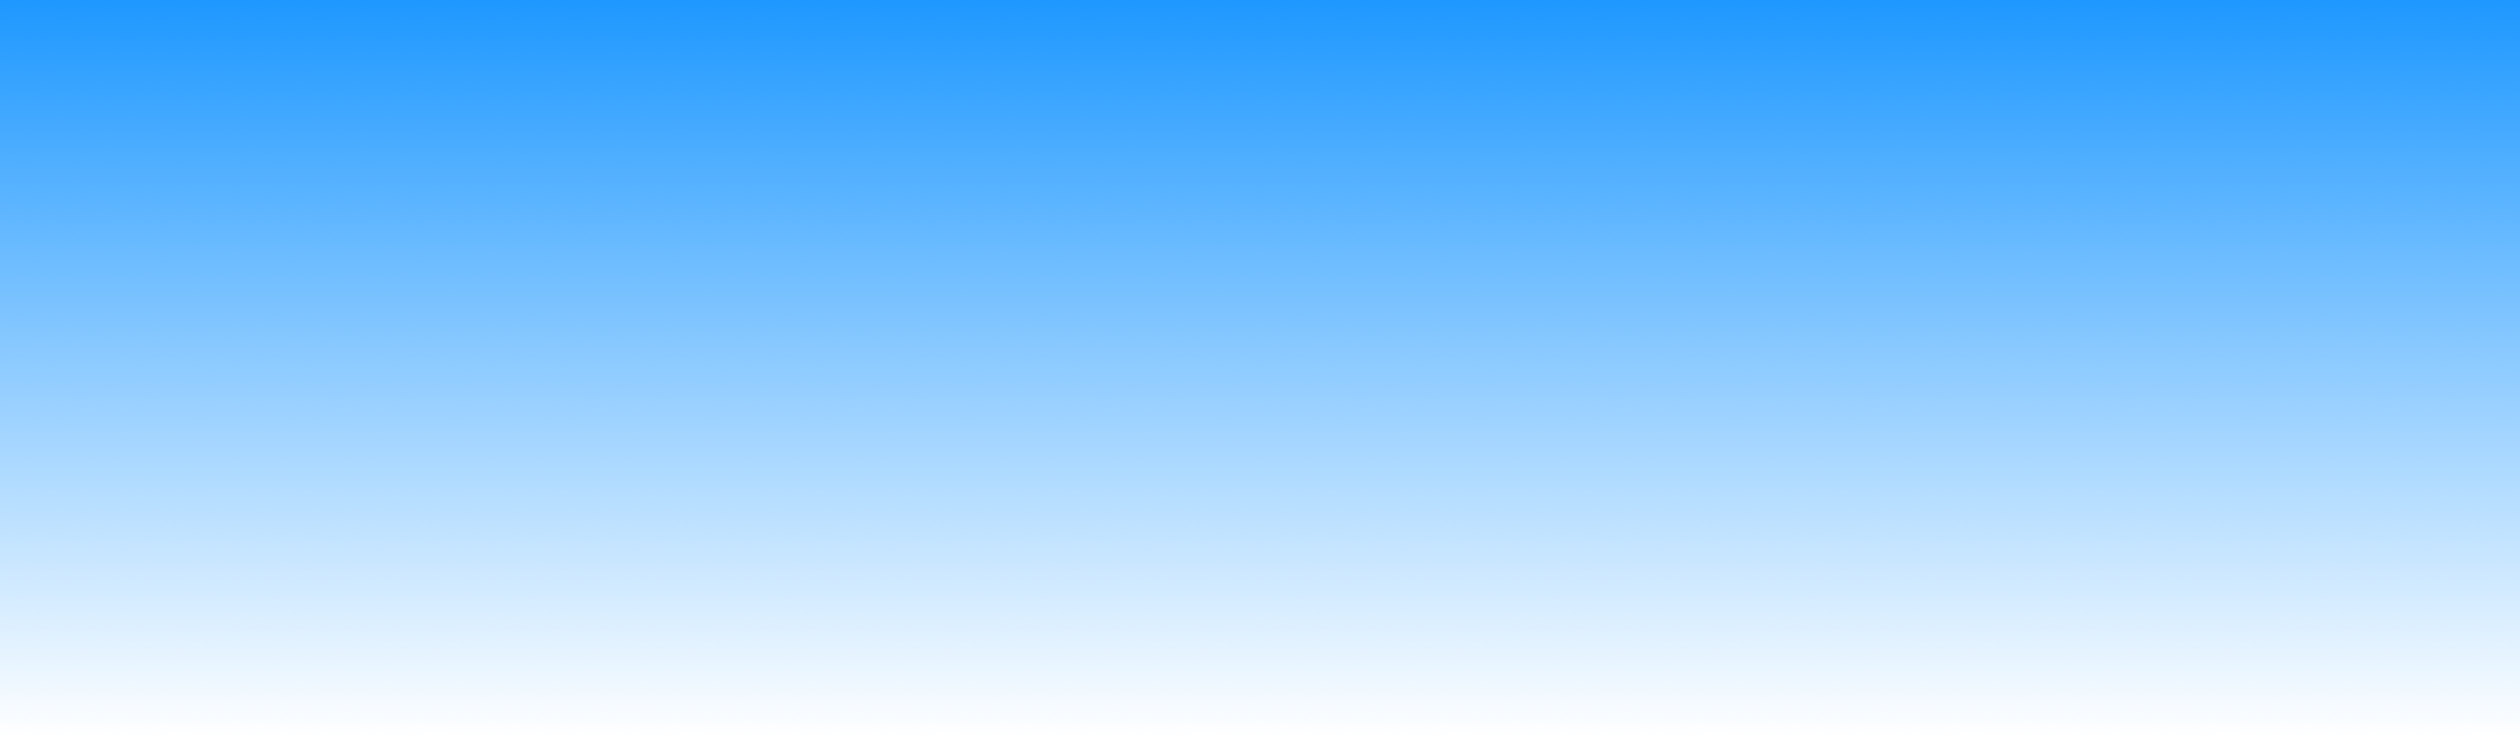
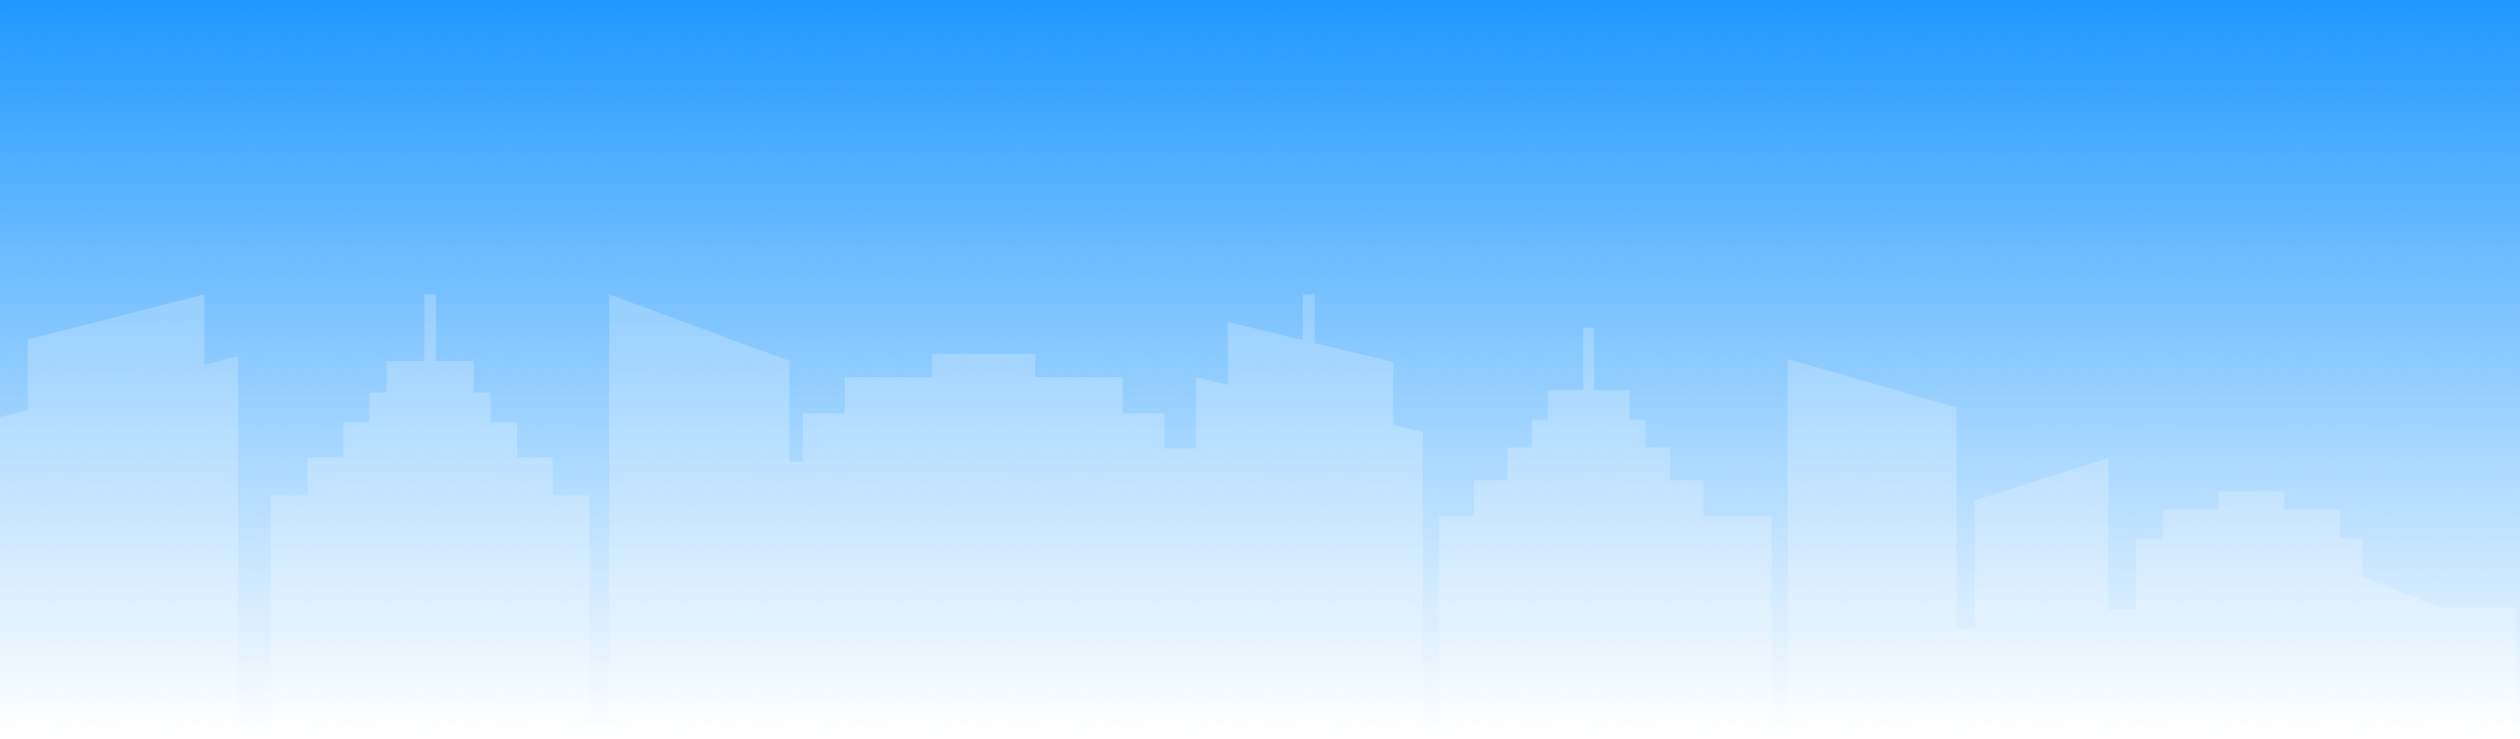
profile done

diff --git a/pages/profile/css/styles.css b/pages/profile/css/styles.css
@@ -1,1 +1,1 @@
-.profile-page{background-position:top;background-repeat:no-repeat;background-size:cover;margin-bottom:225px}.profile h1,.profile h2{font-weight:500;font-size:24px;line-height:28px;margin-bottom:24px}.profile__container{margin:0 auto;max-width:1045px;padding:0 16px}.profile__avatar{display:flex;flex-direction:column;align-items:center;justify-content:center;gap:16px;margin-bottom:32px}.profile__photo{padding-top:16px}.profile__photo img{display:block;height:181px;width:181px;-o-object-fit:contain;object-fit:contain;border:1px solid rgba(0,0,0,0);border-radius:50%}.profile__photo.blue img{box-shadow:1px 1px 11px 6px rgba(0,209,255,.42);border-color:#a9d7ff}.profile__photo.green img{box-shadow:1px 1px 11px 6px #1effae;border-color:#00e569}.profile__photo.yellow img{box-shadow:1px 1px 11px 6px #ecff0b;border-color:#faff1e}.profile__info p{font-size:32px;line-height:37px;font-weight:500;margin-bottom:8px}.profile__info div{display:flex;align-items:center;justify-content:center;gap:8px}.profile__info div span{font-size:16px;line-height:18px;font-weight:500}.profile__status{display:flex;flex-wrap:wrap;justify-content:center;gap:31px;margin-bottom:59px}.profile__status-item{position:relative;padding:20px 16px;border-radius:16px;min-width:221px;display:flex;flex-direction:column;gap:3px;text-align:center;justify-content:center;background-color:#fff}.profile__status-item span{color:#686d81;font-size:14px;line-height:16px}.profile__status-item b{line-height:23px;font-size:20px;font-weight:700}.profile__status-item i{position:absolute;top:-5px;left:50%;transform:translateX(-50%);font-family:"Open Sans";font-weight:600;font-size:10px;color:#fff;text-transform:uppercase;line-height:16px;background-color:#f05b5b;letter-spacing:.5px;border-radius:20px;white-space:nowrap;padding:2px 8px;font-style:normal}.profile__course{text-decoration:none;color:#202020;display:flex;border-radius:24px;overflow:hidden;margin-bottom:32px;box-shadow:5px 5px 15px 0px #e6edf3,5px -5px 10px 0px rgba(230,230,230,.2),-5px 5px 10px 0px rgba(230,230,230,.2)}.profile__course:last-of-type{margin-bottom:0}.profile__course-data{padding:32px;width:calc(100% - 323px);display:flex;flex-direction:column;justify-content:space-between}.profile__course-data-container{display:flex;align-items:center;justify-content:space-between;gap:10px}.profile__course-data-title,.profile__course-data-meta{font-weight:500;font-size:16px;line-height:18px;display:flex;align-items:center;gap:6px}.profile__course-data-title .disabled,.profile__course-data-meta .disabled{color:#c5c9d2}.profile__course-data-title .outdated,.profile__course-data-meta .outdated{font-family:"Open Sans";font-size:10px;font-weight:600;line-height:16px;text-transform:uppercase;padding:0px 6px;border-radius:20px;color:#fff;background-color:#f05b5b;letter-spacing:.5px}.profile__course-data-meta{color:#686d81;gap:20px}.profile__course img{max-height:189px;max-width:323px}.profile__course .progress-bar{position:relative;border-radius:100px;background-color:#f4fcff;overflow:hidden;height:4px;margin-top:9px}.profile__course .progress-bar hr{width:0;margin:0;height:inherit;border:0;background-color:#1e98ff;position:absolute}.profile__course .progress-bar.full{background-color:#2fd215}.profile__course .progress-bar.full hr{display:none}
+.profile-page{background-position:top;background-size:contain;background-image:url("../../../assets/images/pages/profile/background.png");margin-bottom:225px;background-repeat:repeat-x;background-size:auto 493px}.profile{padding-top:90px}.profile h1,.profile h2{font-weight:500;font-size:24px;line-height:28px;margin-bottom:24px}.profile__container{margin:0 auto;max-width:1045px;padding:0 16px}.profile__avatar{display:flex;flex-direction:column;align-items:center;justify-content:center;gap:16px;margin-bottom:32px}.profile__photo img{display:block;height:181px;width:181px;-o-object-fit:contain;object-fit:contain;border:1px solid rgba(0,0,0,0);border-radius:50%}.profile__photo.blue img{box-shadow:1px 1px 11px 6px rgba(0,209,255,.42);border-color:#a9d7ff}.profile__photo.green img{box-shadow:1px 1px 11px 6px #1effae;border-color:#00e569}.profile__photo.yellow img{box-shadow:1px 1px 11px 6px #ecff0b;border-color:#faff1e}.profile__info p{font-size:32px;line-height:37px;font-weight:500;margin-bottom:8px}.profile__info div{display:flex;align-items:center;justify-content:center;gap:8px}.profile__info div span{font-size:16px;line-height:18px;font-weight:500}.profile__status{display:flex;flex-wrap:wrap;justify-content:center;gap:31px;margin-bottom:59px}.profile__status-item{position:relative;padding:20px 16px;border-radius:16px;min-width:221px;display:flex;flex-direction:column;gap:3px;text-align:center;justify-content:center;background-color:#fff}.profile__status-item span{color:#686d81;font-size:14px;line-height:16px}.profile__status-item b{line-height:23px;font-size:20px;font-weight:700}.profile__status-item i{position:absolute;top:-5px;left:50%;transform:translateX(-50%);font-family:"Open Sans";font-weight:600;font-size:10px;color:#fff;text-transform:uppercase;line-height:16px;background-color:#f05b5b;letter-spacing:.5px;border-radius:20px;white-space:nowrap;padding:2px 8px;font-style:normal}.profile__course{text-decoration:none;color:#202020;display:flex;border-radius:24px;overflow:hidden;margin-bottom:32px;box-shadow:5px 5px 15px 0px #e6edf3,5px -5px 10px 0px rgba(230,230,230,.2),-5px 5px 10px 0px rgba(230,230,230,.2)}.profile__course:last-of-type{margin-bottom:0}.profile__course-data{padding:32px;width:calc(100% - 323px);display:flex;flex-direction:column;justify-content:space-between}.profile__course-data-container{display:flex;align-items:center;justify-content:space-between;gap:10px}.profile__course-data-title,.profile__course-data-meta{font-weight:500;font-size:16px;line-height:18px;display:flex;align-items:center;gap:6px}.profile__course-data-title .disabled,.profile__course-data-meta .disabled{color:#c5c9d2}.profile__course-data-title .outdated,.profile__course-data-meta .outdated{font-family:"Open Sans";font-size:10px;font-weight:600;line-height:16px;text-transform:uppercase;padding:0px 6px;border-radius:20px;color:#fff;background-color:#f05b5b;letter-spacing:.5px}.profile__course-data-meta{color:#686d81;gap:20px}.profile__course img{max-height:189px;max-width:323px}.profile__course .progress-bar{position:relative;border-radius:100px;background-color:#f4fcff;overflow:hidden;height:4px;margin-top:9px}.profile__course .progress-bar hr{width:0;margin:0;height:inherit;border:0;background-color:#1e98ff;position:absolute}.profile__course .progress-bar.full{background-color:#2fd215}.profile__course .progress-bar.full hr{display:none}

diff --git a/pages/profile/css/styles.scss b/pages/profile/css/styles.scss
@@ -1,12 +1,15 @@
 .profile-page {
     background-position: top;
-    background-repeat: no-repeat;
-    background-size: cover;
-    //background-image: url("../../../assets/images/pages/profile/background.png");
+    background-size: contain;
+    background-image: url("../../../assets/images/pages/profile/background.png");
     margin-bottom: 225px;
+    background-repeat: repeat-x;
+    background-size: auto 493px;
 }
 
 .profile {
+    padding-top: 90px;
+
     h1,
     h2 {
         font-weight: 500;
@@ -31,8 +34,6 @@
     }
 
     &__photo {
-        padding-top: 16px;
-
         img {
             display: block;
             height: 181px;

diff --git a/pages/profile/js/script.js b/pages/profile/js/script.js
@@ -1,6 +1,6 @@
 document.addEventListener("DOMContentLoaded", () => {
     const header = document.getElementsByTagName("header")[0];
-    document.body.style.paddingTop = `${header.clientHeight}px`;
+    document.body.style.marginTop = `${header.clientHeight}px`;
 
     const status = document.getElementById('status-info');
 
